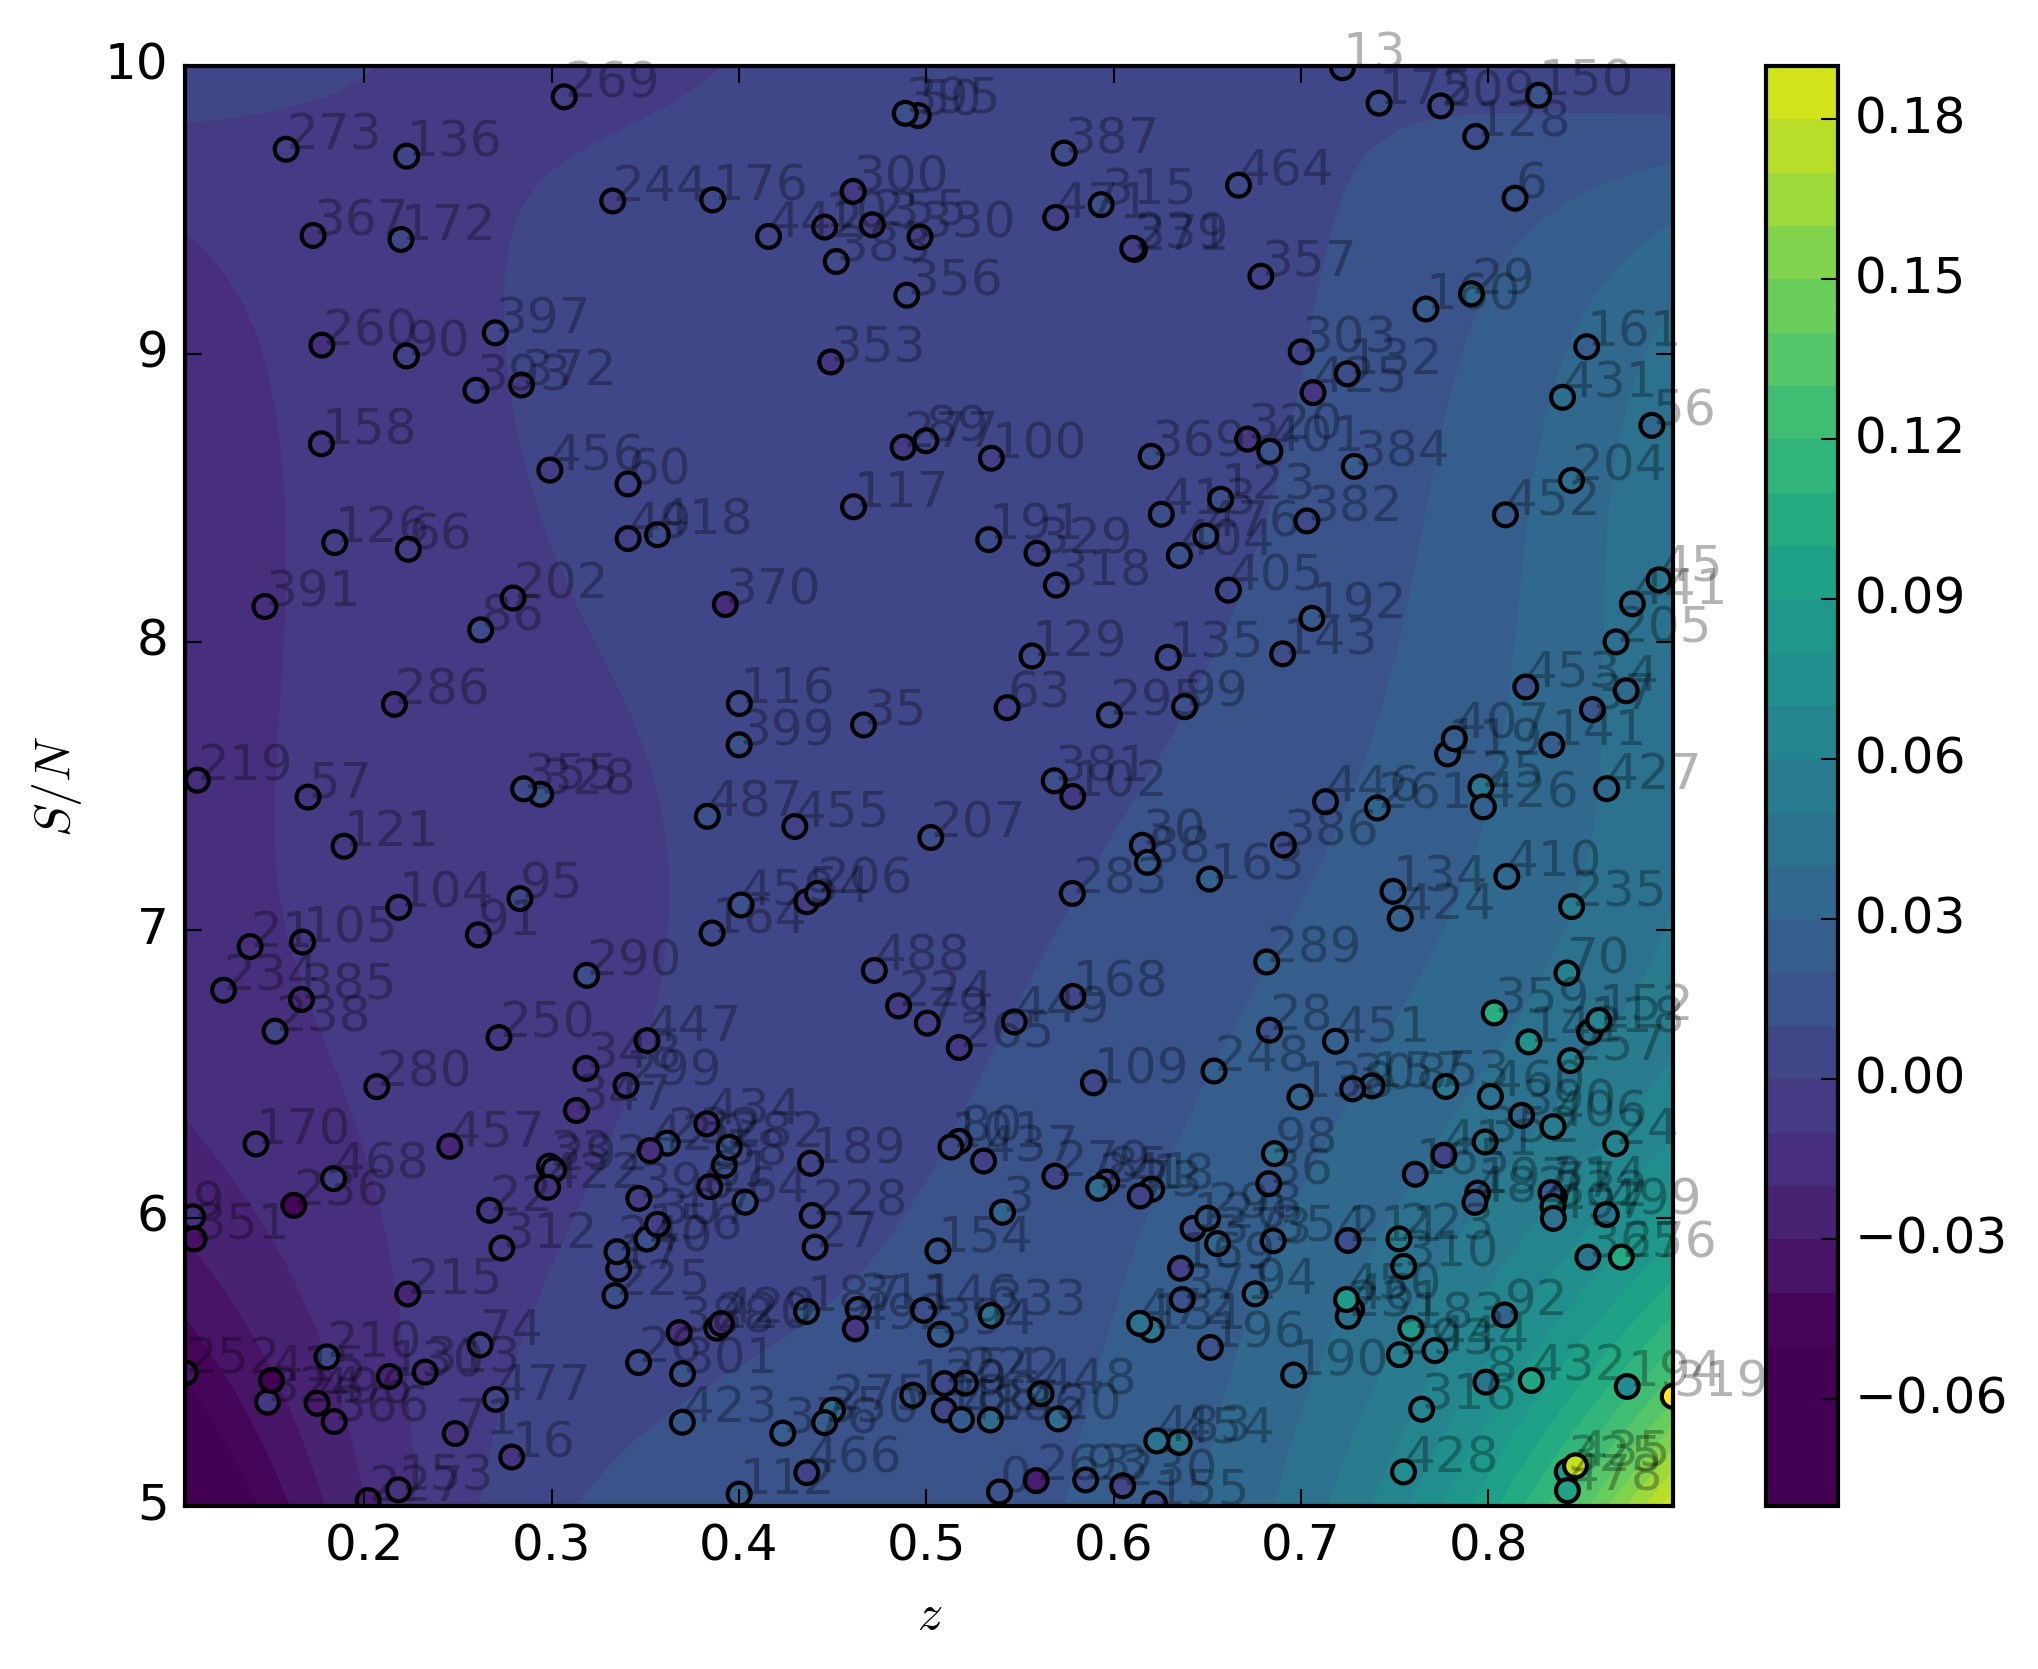
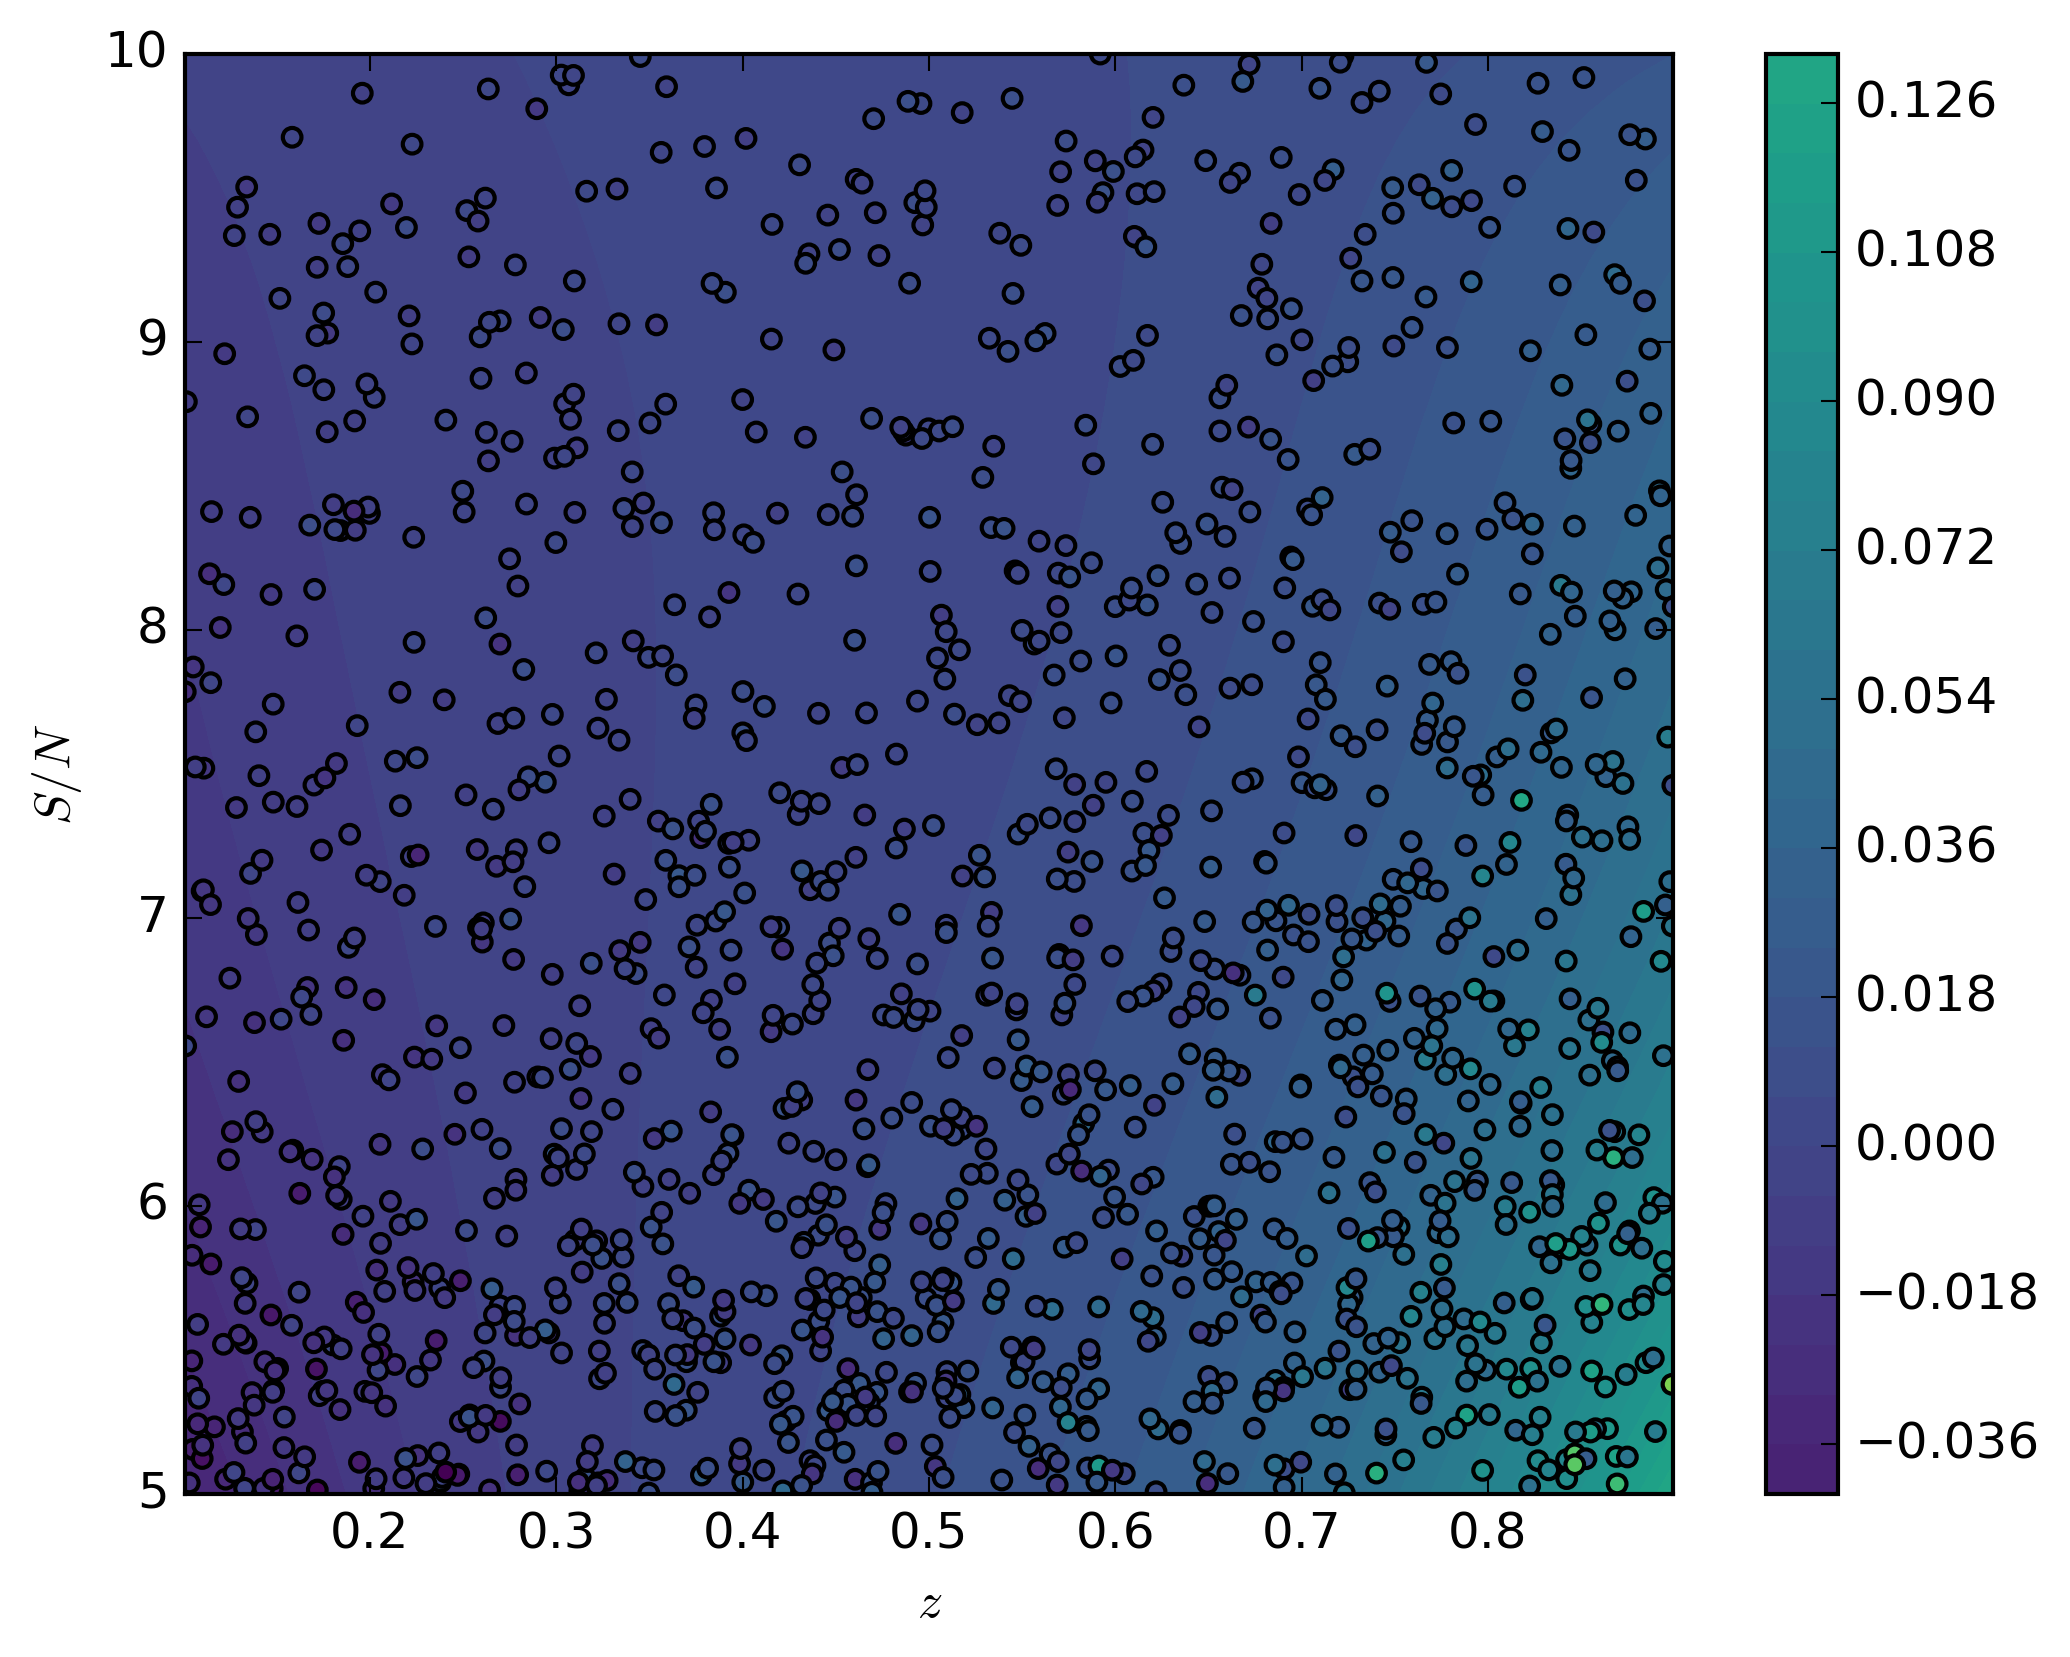
Updating fits to have 2500 points. Relatively happy with the smoothness of the gradient now.

diff --git a/dessn/investigations/gaussianity/ston_and_redshift.py b/dessn/investigations/gaussianity/ston_and_redshift.py
@@ -203,7 +203,7 @@ if __name__ == "__main__":
     if not os.path.exists(temp_dir):
         os.makedirs(temp_dir)
 
-    n = 500
+    n = 2500
     res = Parallel(n_jobs=4, max_nbytes="20M", verbose=100, batch_size=1)(delayed(get_result)(
         temp_dir, i) for i in range(n))
     res = np.array([r for r in res if r is not None])
@@ -235,8 +235,8 @@ if __name__ == "__main__":
     vmax = diffmu.max()
     print(vmin, vmax)
     h = ax.contourf(xx, yy, zz, 30, cmap='viridis', vmin=vmin, vmax=vmax)
-    ax.scatter(z, s, c=diffmu, s=30, cmap='viridis', vmin=vmin, vmax=vmax)
-    if True:
+    ax.scatter(z, s, c=diffmu, s=20, cmap='viridis', vmin=vmin, vmax=vmax)
+    if False:
         for i, zp, sp in zip(seeds, z, s):
             ax.text(zp, sp, "%d" % i, alpha=0.3)
 
